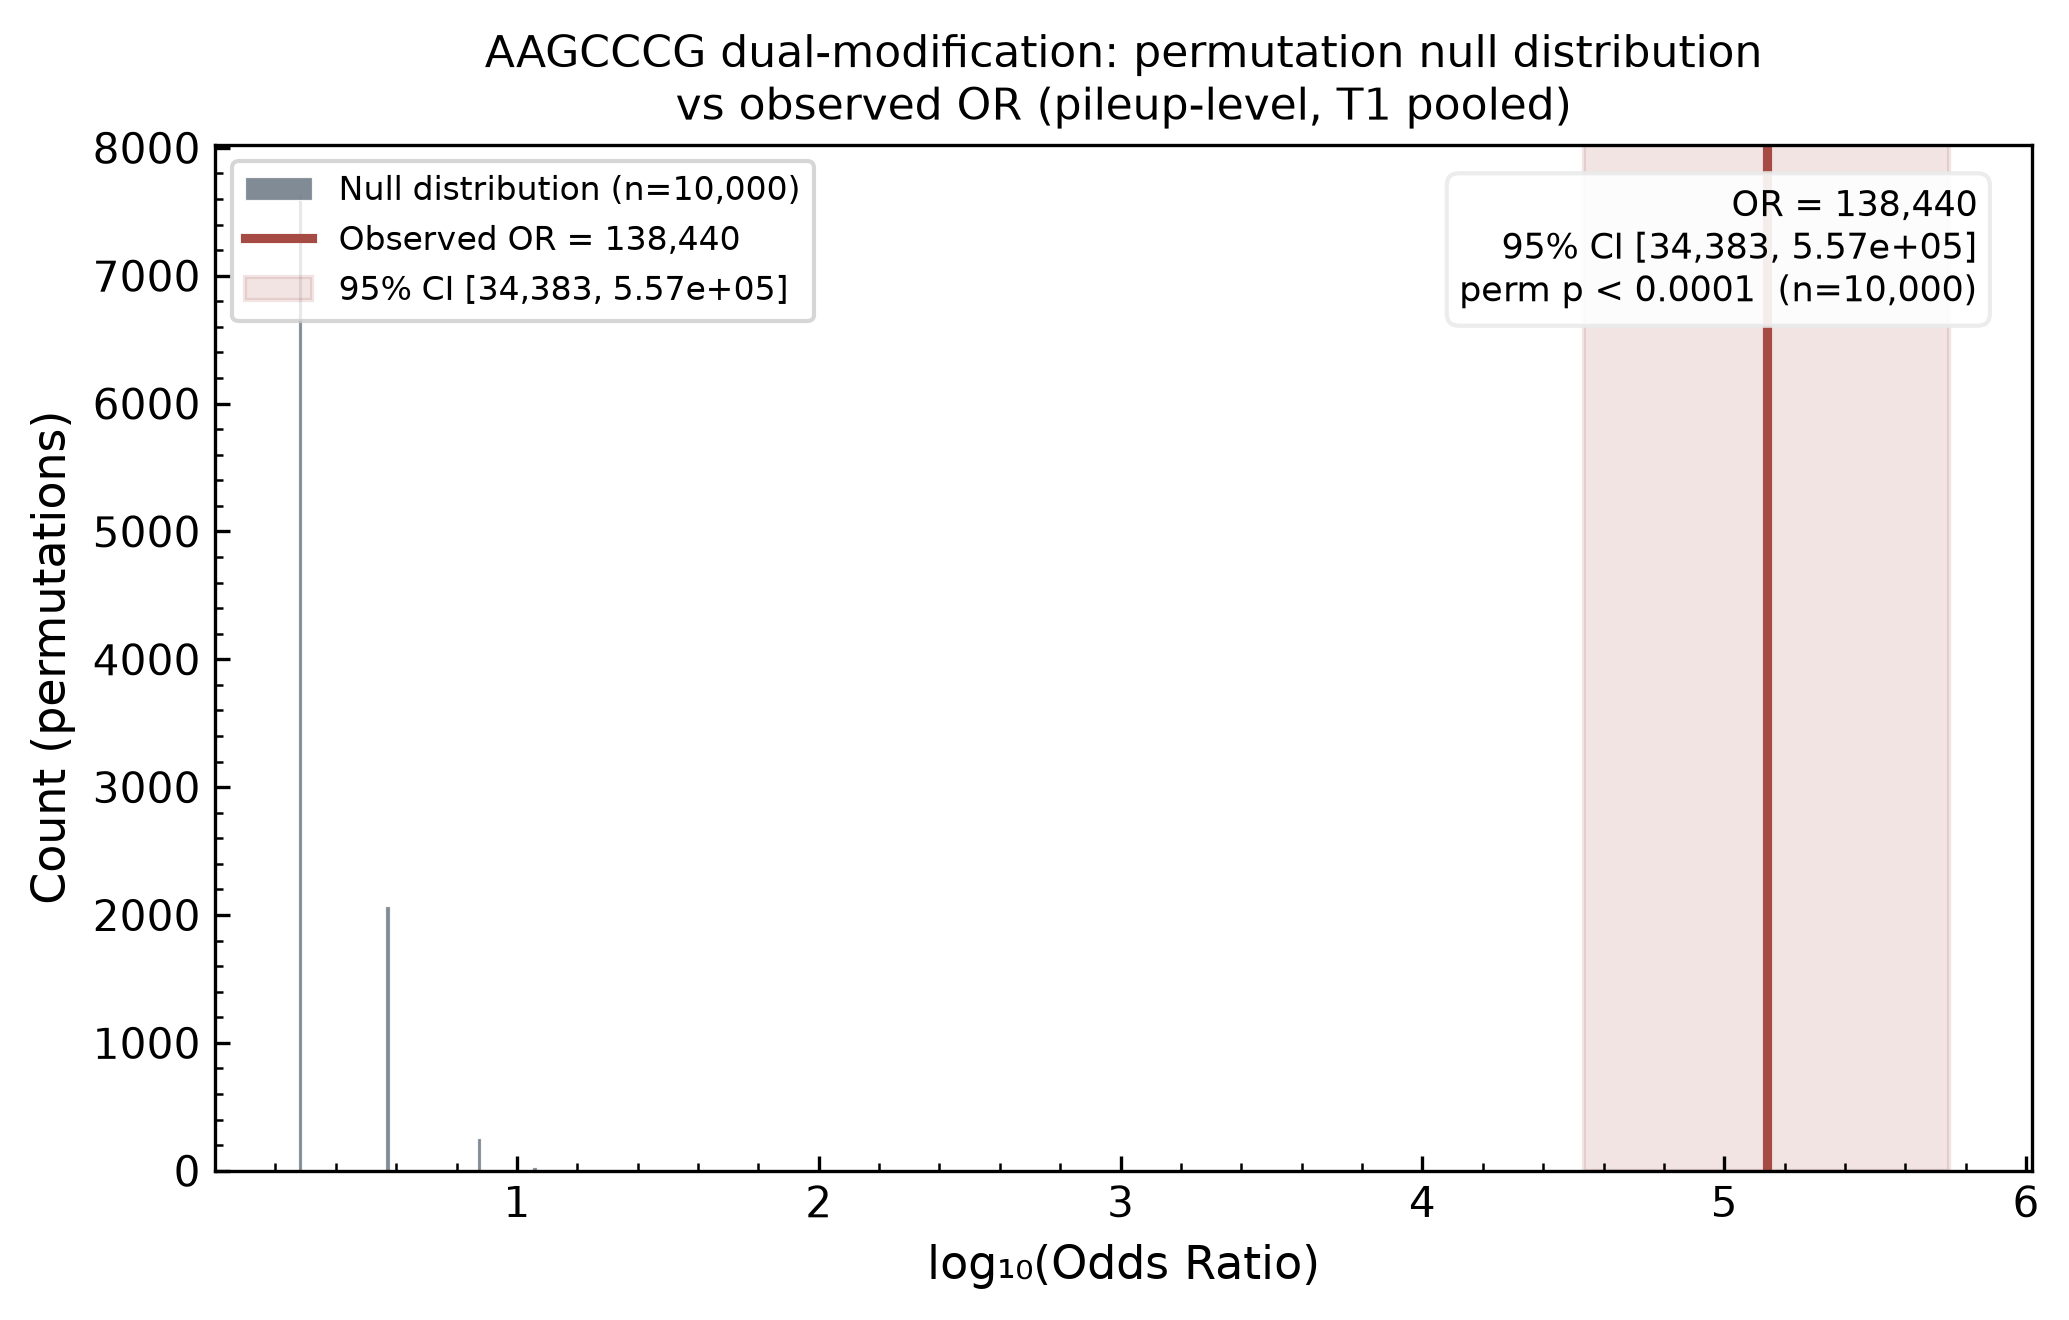
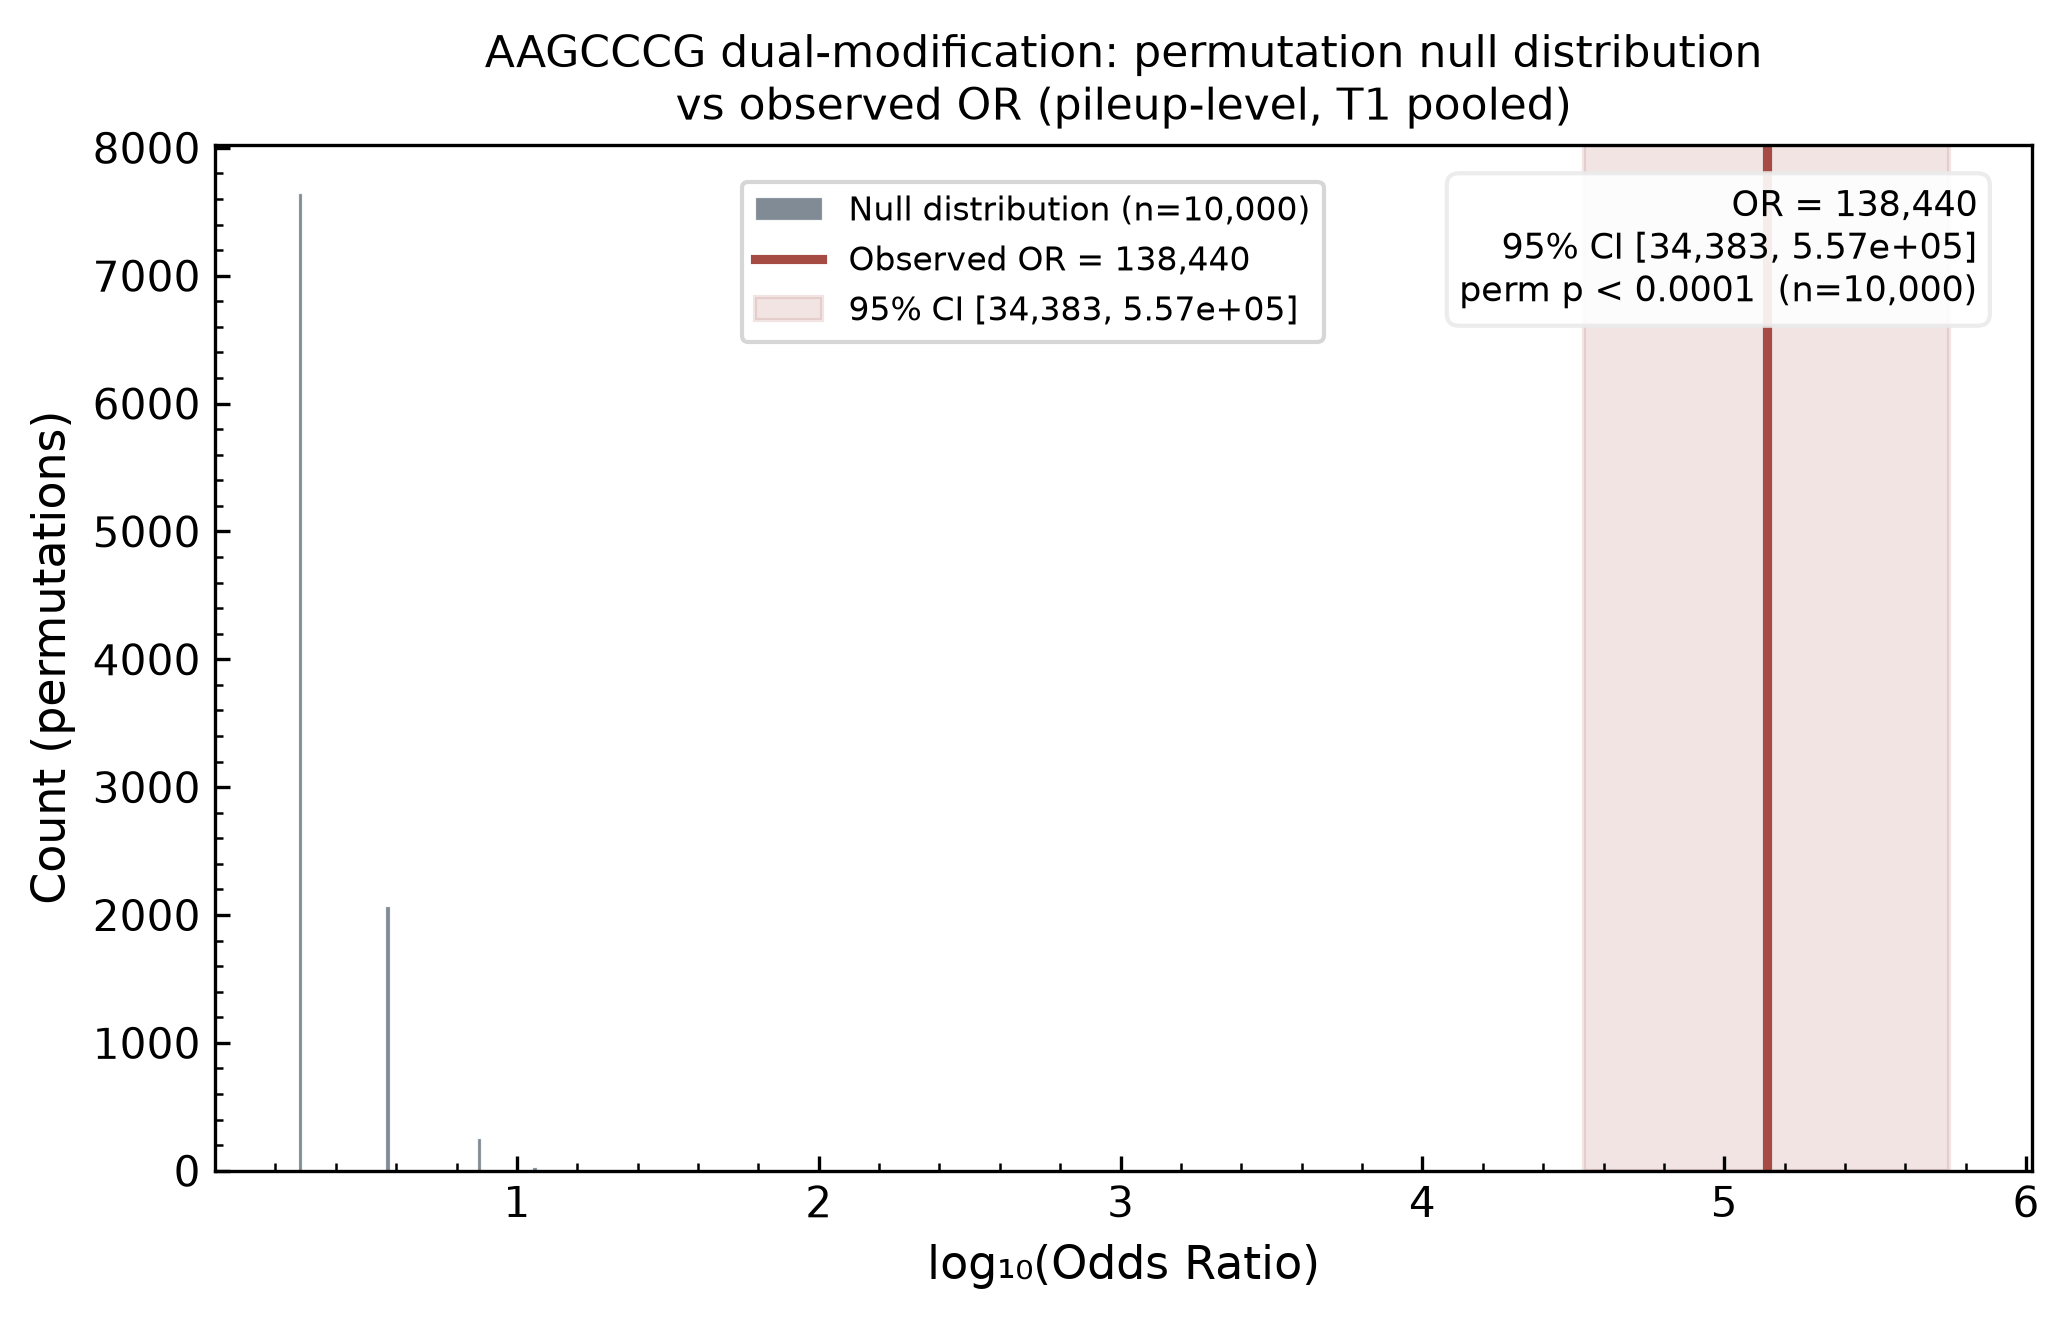
figures(review wave1): FIG-17 S4 legend no longer hides the null bars
A3_OR_CI_permutation.py: legend anchored in the empty centre of the axis
instead of upper-left, where it covered the permutation-null bars at
log10(OR) 0.3-0.9. Statistics unchanged (OR 138,440; perm p < 0.0001).

Changed region(s): [[0.0928, 0.1242, 0.6496, 0.2485]]

diff --git a/11_epigenome_integration/analysis/68_or_permutation/A3_OR_CI_permutation.py b/11_epigenome_integration/analysis/68_or_permutation/A3_OR_CI_permutation.py
@@ -173,7 +173,9 @@ ax.set_xlabel("log₁₀(Odds Ratio)", fontsize=11)
 ax.set_ylabel("Count (permutations)", fontsize=11)
 ax.set_title("AAGCCCG dual-modification: permutation null distribution\n"
              "vs observed OR (pileup-level, T1 pooled)", fontsize=10.5)
-ax.legend(fontsize=8, loc="upper left")
+# 2026-09-13 (FIG-17): the upper-left legend box hid the null bars at
+# log10(OR) ~0.3-0.9; anchor it in the empty middle of the axis instead.
+ax.legend(fontsize=8, loc="upper center", bbox_to_anchor=(0.45, 0.98))
 ax.xaxis.set_minor_locator(ticker.AutoMinorLocator())
 ax.yaxis.set_minor_locator(ticker.AutoMinorLocator())
 ax.tick_params(axis="both", which="both", direction="in")
